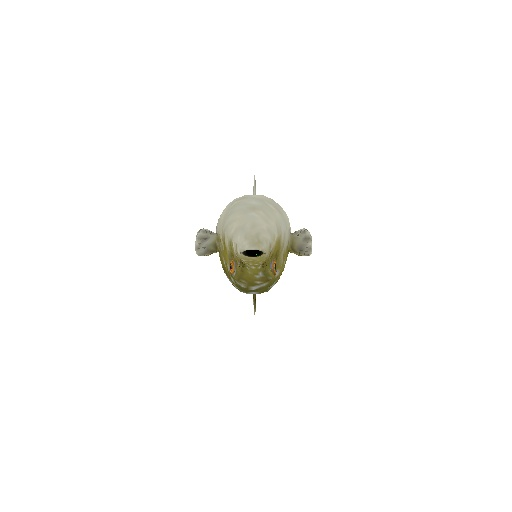
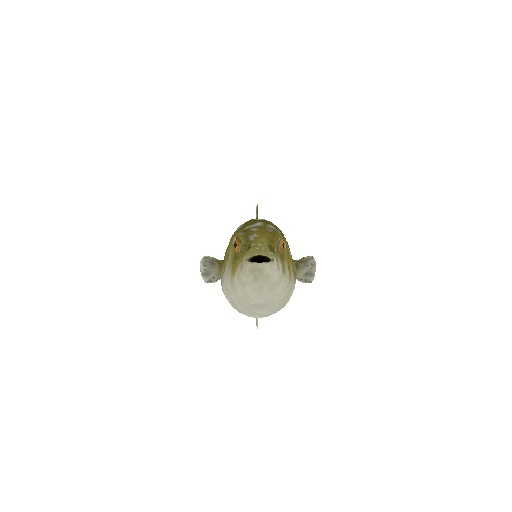
Final fixes

Changed region(s): [[0.375, 0.3438, 0.625, 0.625]]

diff --git a/Ergasia_2/transform.py b/Ergasia_2/transform.py
@@ -15,9 +15,6 @@ class Transform:
 
     # rotate the transformation matrix
     def rotate(self, theta: float, u: np.ndarray) -> None:
-        # Reverse theta in order to perform right rotation
-        theta = -theta
-
         # Initialise ux uy and uz from u
         ux = u[0]
         uy = u[1]
@@ -39,6 +36,9 @@ class Transform:
 
         # Make R homogeneous
         R_h = np.block([[R, np.zeros((3, 1))], [np.zeros((1, 3)), 1]])
+
+        # Transpose the matrix because we want right rotation
+        R_h = R_h.T
 
         # Update self.mat
         self.mat = np.dot(R_h, self.mat)

diff --git a/Ergasia_2/world2view.py b/Ergasia_2/world2view.py
@@ -12,11 +12,8 @@ def world2view(pts: np.ndarray, R: np.ndarray, c0: np.ndarray) -> np.ndarray:
 
     # Transform all points (use transpose in order to acces points one by one)
     for point in pts.T:
-        # Rotate the point
-        transformed_point = np.dot(R.T, point)
-
-        # Transpose the point
-        transformed_point = transformed_point + c0
+        # Rotate and translate the point
+        transformed_point = np.dot(R, (point - c0))
 
         # Append updated point to the array
         transformed_pts.append(transformed_point)
